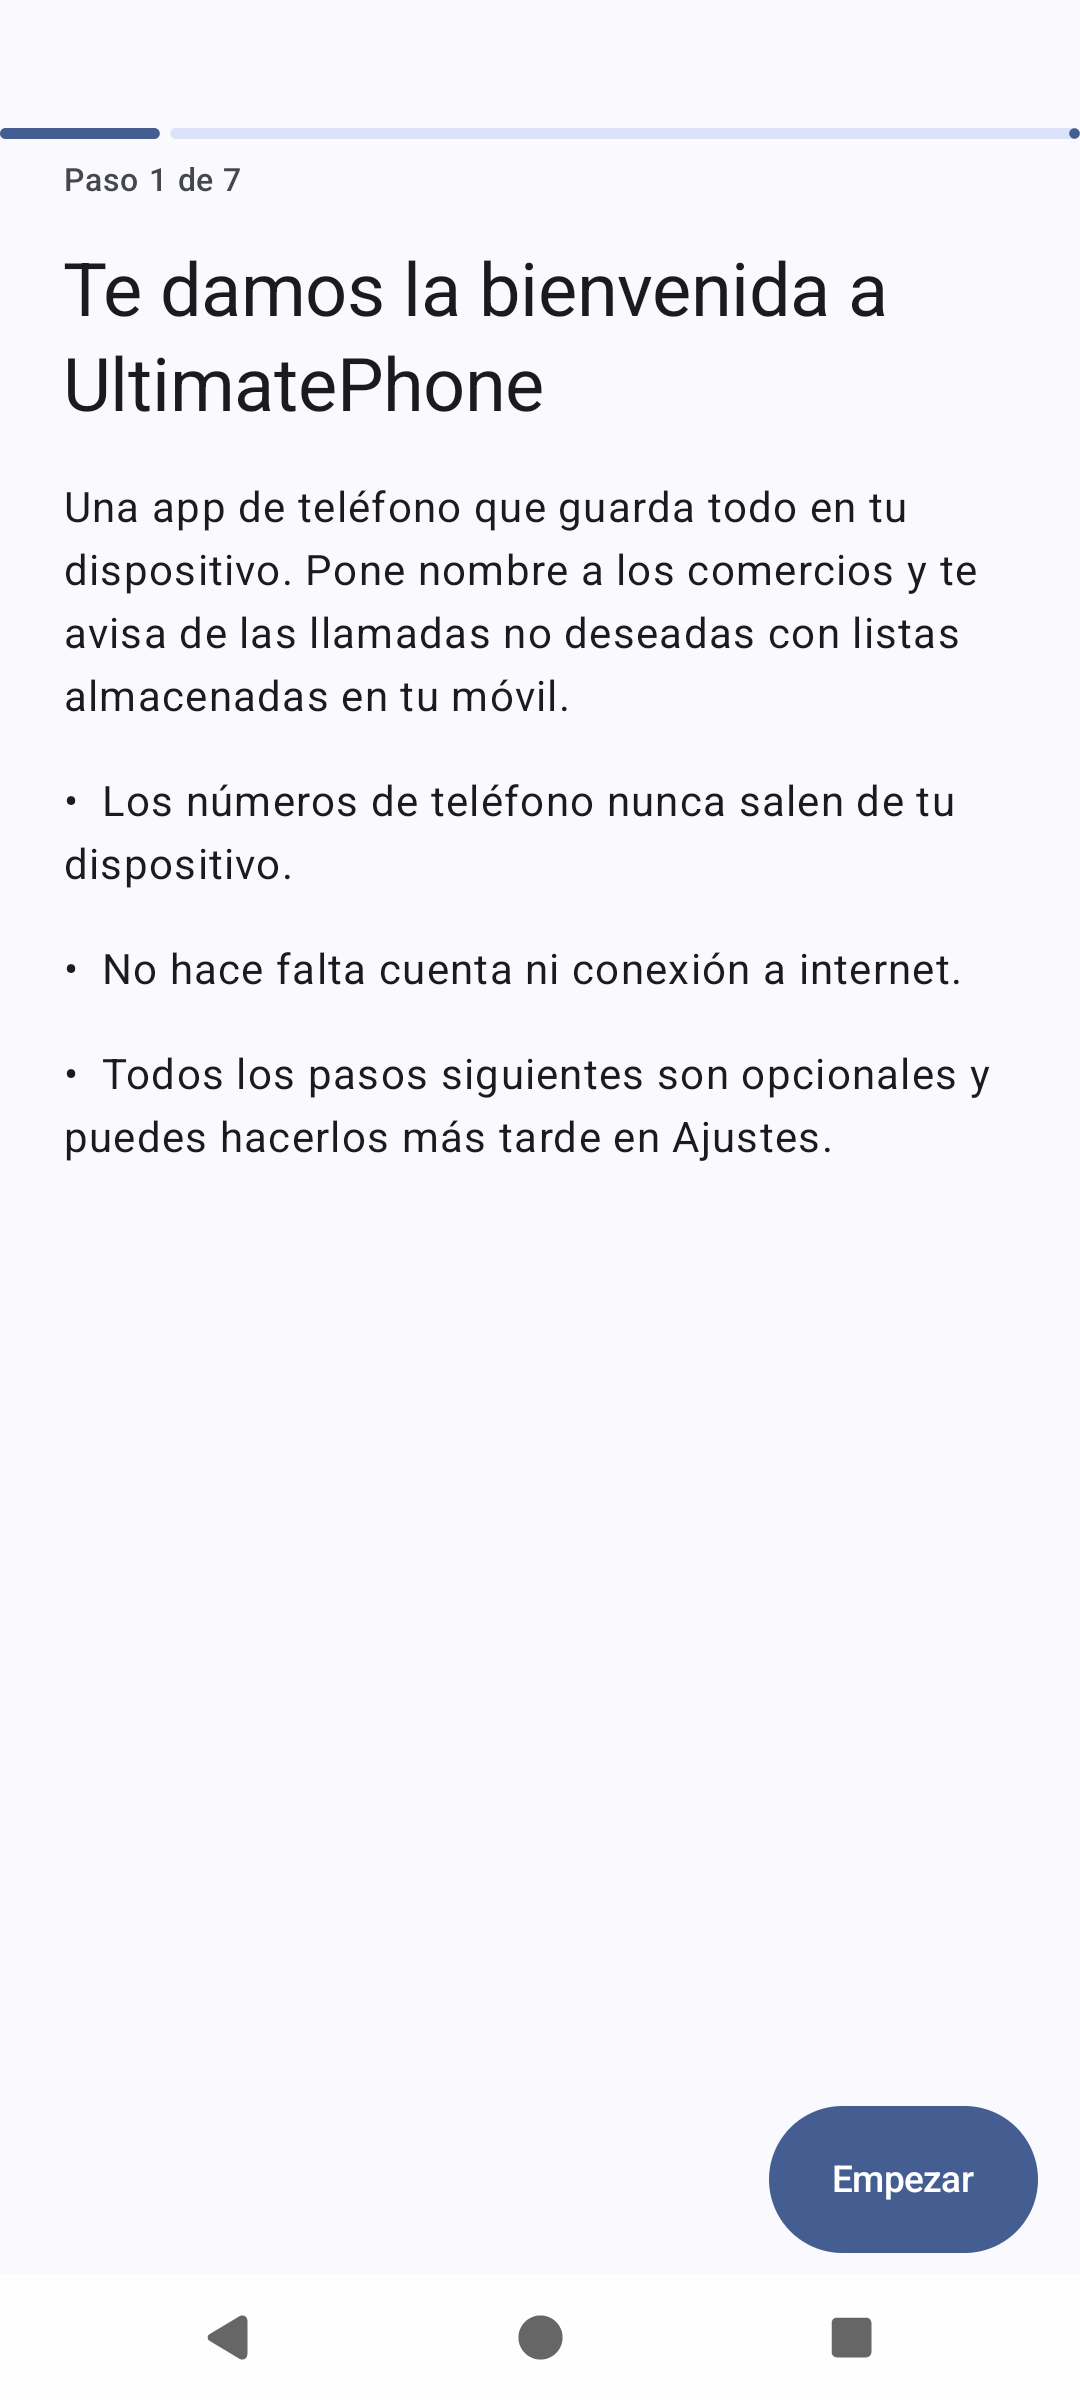
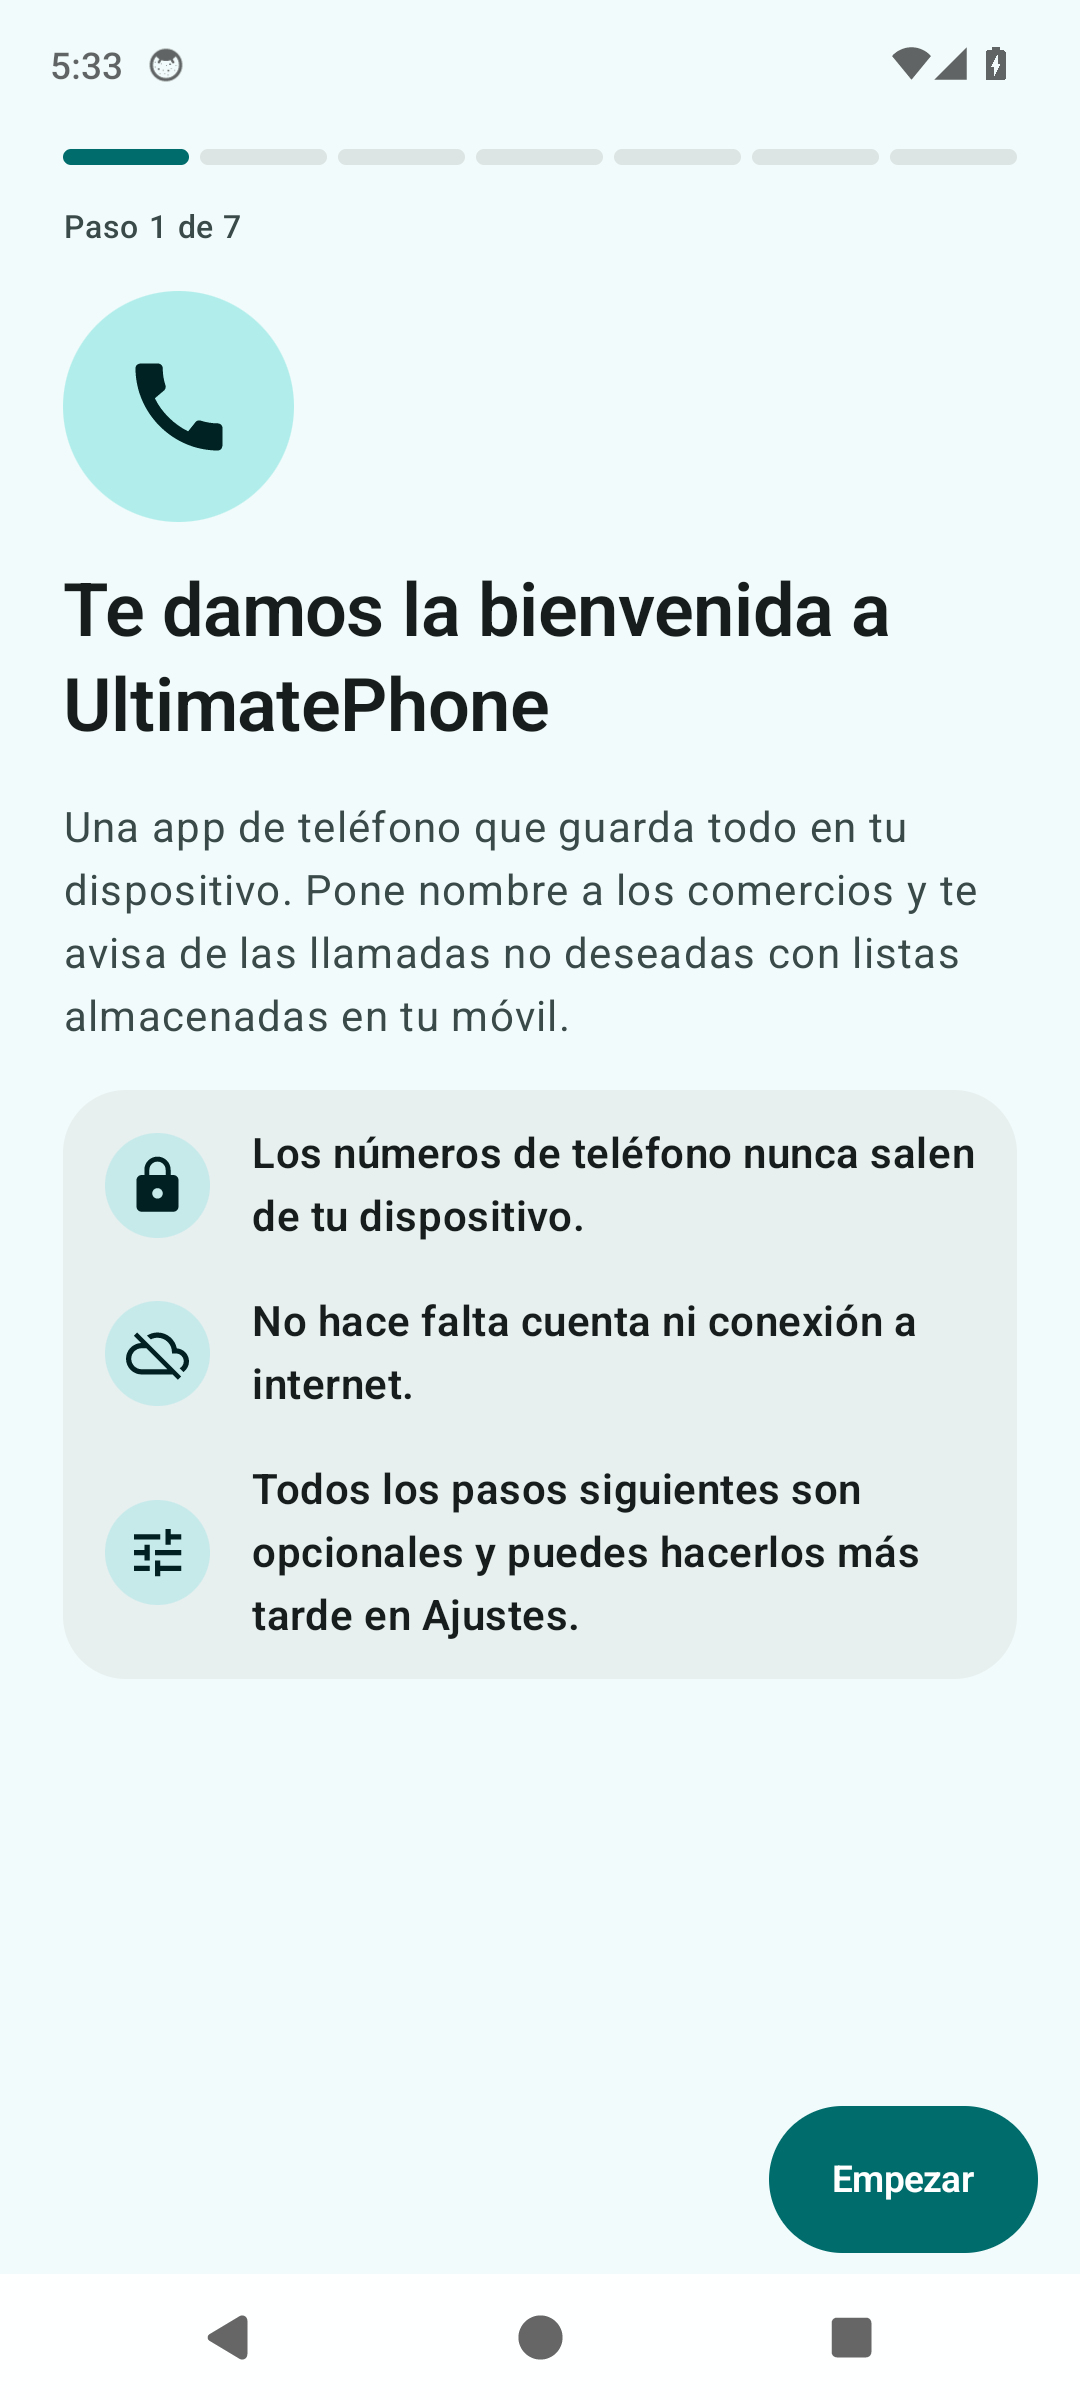
chore: release 0.1.1 with new screenshots
Claude-Session: https://claude.ai/code/session_01XKgyFPfcgnUSu643ikQ6E9

Changed region(s): [[0.0, 0.0, 1.0, 0.6875], [0.7028, 0.875, 0.9778, 0.9375], [0.0917, 0.625, 0.2139, 0.6875]]

diff --git a/CHANGELOG.md b/CHANGELOG.md
@@ -3,6 +3,12 @@
 All notable changes to UltimatePhone. Versions follow [SemVer](https://semver.org/); the
 same text is kept under `fastlane/metadata/android/*/changelogs` for F-Droid.
 
+## [0.1.1]
+
+- New look: a brand palette (deep teal and mint; system colours are an option in Settings), grouped settings lists, large title bars, a redesigned keypad and call screens (bigger End call, pulsing ring while ringing), a step-by-step setup guide and consistent screens everywhere.
+- If the app ever closes unexpectedly, the next start shows what happened with Copy and Share buttons (phone numbers hidden, nothing is sent).
+- Start-up fix carried from 0.1.0-rc2: versions 0.1.0-rc1 close on first start; update to this one.
+
 ## [0.1.0]
 
 First version. A phone app with contacts and a spam filter that decides on your device.
